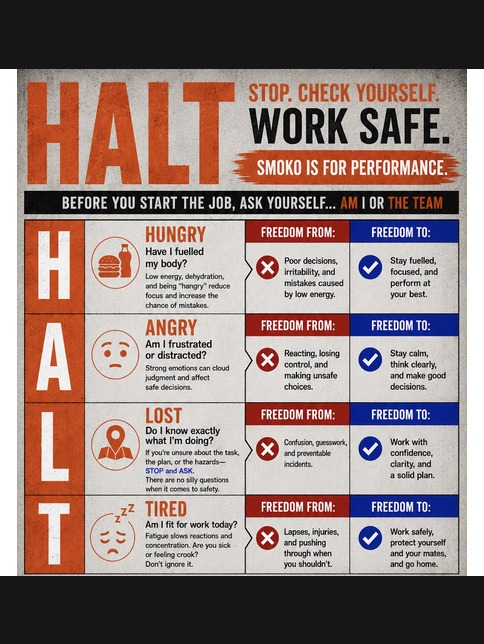
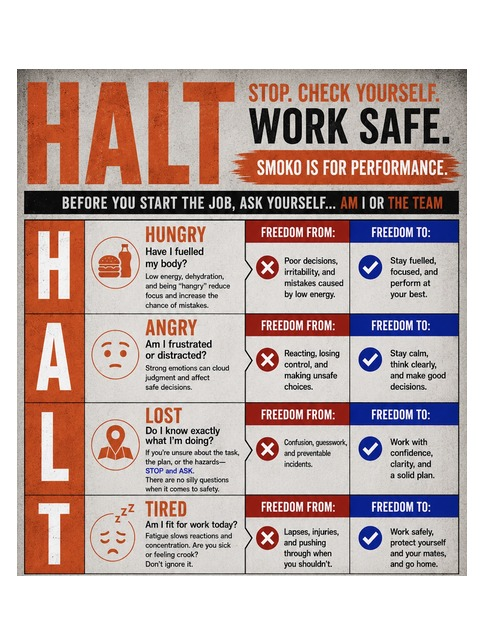
Safety Alert: fix stray gray line at photo frame edges
Real, confirmed bug (found by direct pixel sampling, not by eye): every
photo frame is built on a hidden background canvas meant to be entirely
cropped away by the template's <a:srcRect>. That canvas was near-black
(PI_BLACK) — "you'll never see this anyway" — but a sub-pixel mismatch
between this canvas and the actual crop leaves a sliver of it visible,
rendering as a thin gray line at the frame's edge. Confirmed with a
before/after pixel scan at the exact same coordinates: a clear gray
gradient (92→242) before the fix, pure white after.

Fixed by making that hidden canvas white instead of near-black
everywhere it's used, so any leftover sliver is invisible against the
page rather than reading as a fault line:
- fitPhotoToFrame() in buildSafetyAlertDocx.js (real incident photos)
- fit-safety-alert-default-photos.py (regenerated all 3 default images)
- fit-safety-alert-headshots.py (regenerated locally; still needs
  re-uploading to Supabase by whoever holds those credentials — this
  session doesn't)

Verified with a deliberately mismatched (portrait) test photo, the
shape most likely to expose the artifact, and re-checked all 3
regenerated defaults for the same issue — clean on both.

Changed region(s): [[0.0, 0.8696, 1.0, 1.0], [0.0, 0.0, 1.0, 0.1242]]

diff --git a/server/src/lib/buildSafetyAlertDocx.js b/server/src/lib/buildSafetyAlertDocx.js
@@ -306,7 +306,13 @@ async function fitPhotoToFrame(sourceBuffer, label) {
     .resize(vw, vh, { fit: 'contain', background: { r: 255, g: 255, b: 255 } })
     .jpeg()
     .toBuffer()
-  return sharp({ create: { width: cw, height: ch, channels: 3, background: { r: 22, g: 22, b: 22 } } })
+  // White, not a dark "won't be seen anyway" colour — a sub-pixel mismatch
+  // between this canvas and the template's <a:srcRect> crop leaves a sliver
+  // of it visible as a thin border-like line (found and confirmed by pixel
+  // sampling: a real, if narrow, JPEG-compressed line, not a Word-drawn
+  // border). White makes that same sliver invisible against the page instead
+  // of reading as a fault line.
+  return sharp({ create: { width: cw, height: ch, channels: 3, background: { r: 255, g: 255, b: 255 } } })
     .composite([{ input: fitted, left: Math.round(vx0), top: Math.round(vy0) }])
     .jpeg({ quality: 90 })
     .toBuffer()

diff --git a/server/scripts/fit-safety-alert-default-photos.py b/server/scripts/fit-safety-alert-default-photos.py
@@ -1,22 +1,24 @@
 """
 Fit Tony's own three "Default Photos" (~/Documents/Claude/Projects/Safety
 Alert Project/Default Photos/Default {1,2,3}.jp*g) into the Safety Alert
-template's three photo frames, replacing the generated camera-icon
-placeholders from make-safety-alert-placeholders.py.
+template's three photo frames.
 
-Same canvas/visible-window contract as that script (see its docstring for
-why): each output image MUST be the exact pixel size of the template photo
-it stands in for, because document.xml crops each frame with a fixed
+Each output image MUST be the exact pixel size of the template photo it
+stands in for, because document.xml crops each frame with a fixed
 <a:srcRect> percentage.
 
 Per Tony: "we can never cut off a photo. Whitespace is acceptable" — so the
 source photo is "contain"-fit (scaled down to fit ENTIRELY within the
 frame's VISIBLE window, never cropped) and centered on a white background
 that fills the rest of that window, then pasted at the window's offset
-inside a full-size canvas. Canvas area outside the visible window is never
-seen (cropped away by Word — that crop is baked into the template's own XML
-and this script cannot touch it) but is filled with black to match the
-template's own dark corners rather than left blank.
+inside a full-size canvas. The canvas area outside the visible window is
+supposed to be invisible — cropped away by Word (that crop is baked into the
+template's own XML and this script cannot touch it) — but a sub-pixel
+mismatch between this canvas and that crop can leave a sliver of it showing
+as a thin line. It's filled white (CANVAS_BG), not the "it'll never be seen
+anyway" near-black this used to be, precisely so that if it DOES leak
+through, it's invisible against the page rather than reading as a fault
+line — found by direct pixel sampling on a real export, not by eye.
 
 WHICH PHOTO GOES IN WHICH FRAME IS NOT FIXED (per Tony: pick by fit, not by
 matching numbers) — this brute-forces all 3! assignments of the 3 source
@@ -35,7 +37,13 @@ import os
 from itertools import permutations
 from PIL import Image, ImageOps
 
-PI_BLACK = (22, 22, 22)
+# White, not near-black — a sub-pixel mismatch between this canvas and the
+# template's <a:srcRect> crop leaves a sliver of it visible as a thin
+# border-like line (confirmed by direct pixel sampling on a real export).
+# White makes that same sliver invisible against the page instead of a fault
+# line, since PI_BLACK was only ever meant to be a "you'll never see this"
+# fallback, not a colour anyone was supposed to be able to spot.
+CANVAS_BG = (255, 255, 255)
 
 SOURCE_DIR = "/Users/tonydaunt/Documents/Claude/Projects/Safety Alert Project/Default Photos"
 ASSETS_DIR = os.path.join(os.path.dirname(__file__), "..", "src", "assets")
@@ -92,7 +100,7 @@ def build(src_name, frame):
     src = ImageOps.exif_transpose(Image.open(os.path.join(SOURCE_DIR, src_name))).convert("RGB")
     fitted = contain_pad(src, vw, vh)
 
-    canvas = Image.new("RGB", (canvas_w, canvas_h), PI_BLACK)
+    canvas = Image.new("RGB", (canvas_w, canvas_h), CANVAS_BG)
     canvas.paste(fitted, (round(vx0), round(vy0)))
 
     out_path = os.path.join(ASSETS_DIR, frame["out"])

diff --git a/server/scripts/fit-safety-alert-headshots.py b/server/scripts/fit-safety-alert-headshots.py
@@ -23,7 +23,12 @@ Requires Pillow (pip install pillow).
 import os
 from PIL import Image, ImageOps
 
-PI_BLACK = (22, 22, 22)
+# White, not near-black — a sub-pixel mismatch between this canvas and the
+# template's <a:srcRect> crop can leave a sliver of it visible as a thin
+# border-like line (confirmed by direct pixel sampling on a real export, on
+# the default-photo frames this same contract is shared with). White makes
+# that same sliver invisible against the page instead of a fault line.
+CANVAS_BG = (255, 255, 255)
 
 SOURCE_DIR = "/Users/tonydaunt/Documents/Claude/Projects/Safety Alert Project/Headshots"
 OUT_DIR = os.path.join(os.path.dirname(__file__), "..", "src", "assets", "headshots")
@@ -55,7 +60,7 @@ def build(filename):
     src = ImageOps.exif_transpose(Image.open(os.path.join(SOURCE_DIR, filename))).convert("RGB")
     fitted = cover_crop(src, vw, vh)
 
-    canvas = Image.new("RGB", (canvas_w, canvas_h), PI_BLACK)
+    canvas = Image.new("RGB", (canvas_w, canvas_h), CANVAS_BG)
     canvas.paste(fitted, (round(vx0), round(vy0)))
 
     out_path = os.path.join(OUT_DIR, filename)
